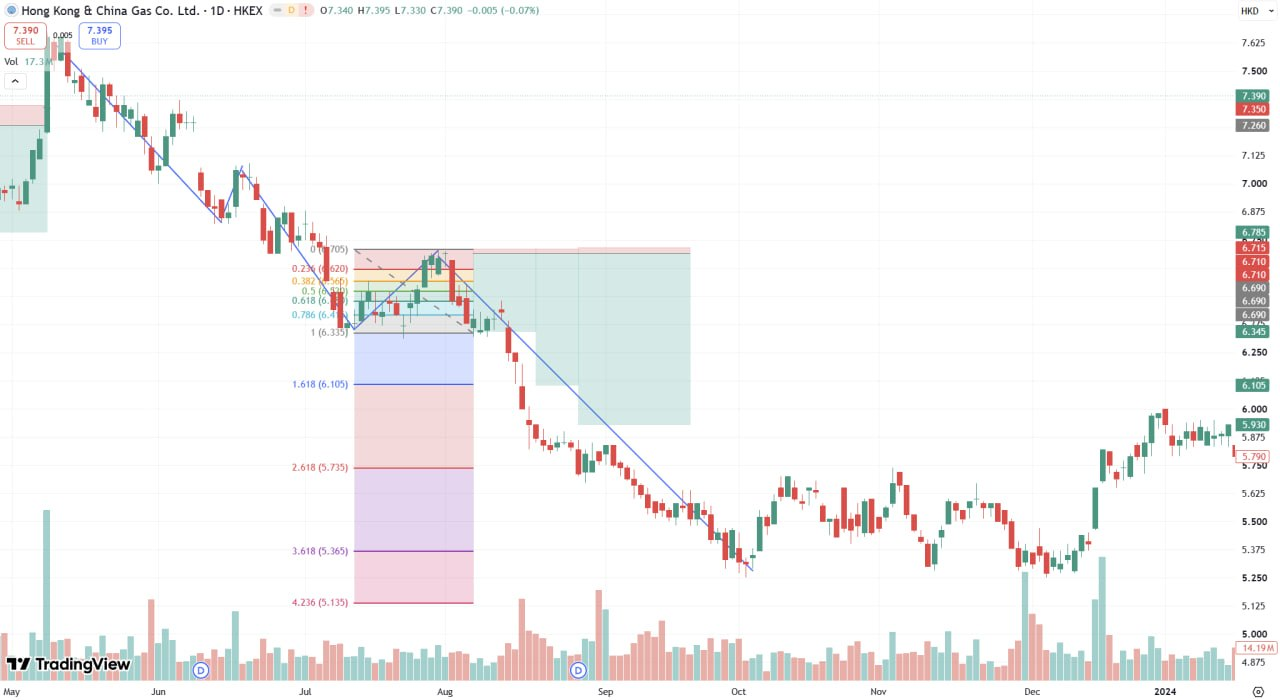
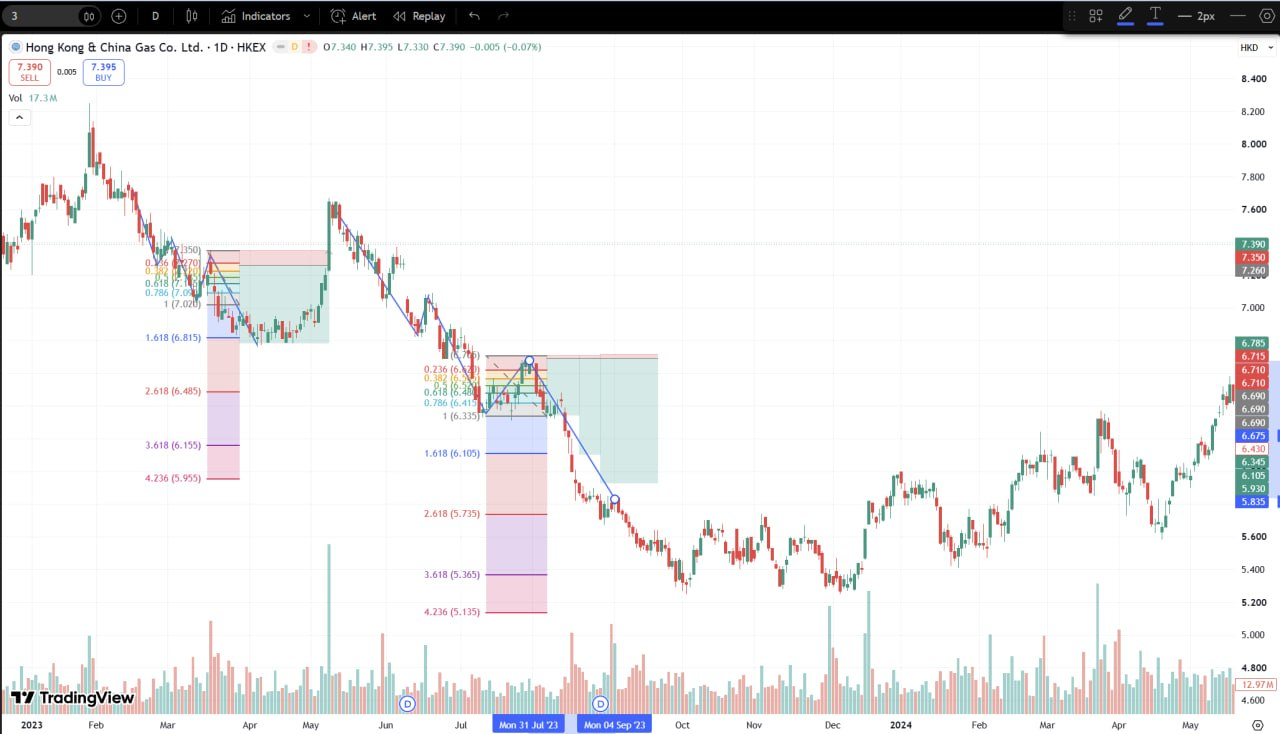
順勢交易part2: 換第 8 張圖（煤氣兩組 Fib）
新截圖軸 2023-01 至 2024-05，右組 Fib 0–1 完整可讀，左組只有延伸位。只寫圖上讀到嘅數字。

Changed region(s): [[0.0, 0.0, 1.0, 1.0], [0.9688, 0.99, 1.0, 1.0]]

diff --git a/順勢交易part2/index.html b/順勢交易part2/index.html
@@ -104,8 +104,8 @@
 
         <article class="case-card">
           <div class="case-header"><h3>08 · Hong Kong &amp; China Gas Co. Ltd.</h3><span class="ticker">1D · HKEX · Fib</span></div>
-          <div class="case-chart"><img src="../images/順勢交易part2/08.jpg" alt="Towngas fib 1D" /></div>
-          <p>日線，軸 May 至 2024。Fib 0 (6.705) 至 1 (6.335)，延伸 1.618 (6.105)、4.236 (5.135)。藍下降趨勢線，綠區。代號圖上冇寫。</p>
+          <div class="case-chart"><img src="../images/順勢交易part2/08.jpg" alt="Towngas 1D 兩組 Fib" /></div>
+          <p>日線，軸 2023-01 至 2024-05，兩個藍框日期 Mon 31 Jul '23、Mon 04 Sep '23。兩組 Fib：右組完整 <strong>0 (6.760)、0.382 (6.620)、0.5 (6.590)、0.618 (6.480)、0.786 (6.415)、1 (6.335)</strong>，延伸 1.618 (6.105)、2.618 (5.735)、3.618 (5.365)、4.236 (5.135)；左組 0–1 被燭遮住，只讀到延伸 1.618 (6.815)、2.618 (6.485)、3.618 (6.155)、4.236 (5.955)。粉 / 綠 / 紫區。代號圖上冇寫。</p>
           <div class="case-tags"><span>1D</span><span>HKEX</span><span>下降趨勢線</span></div>
         </article>
 
